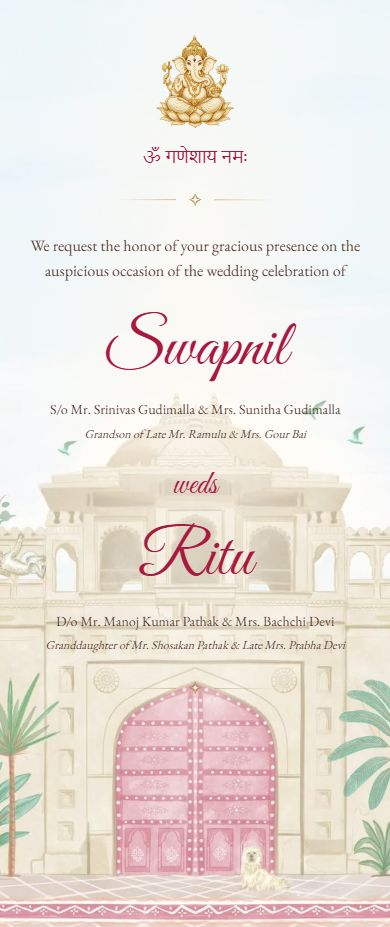
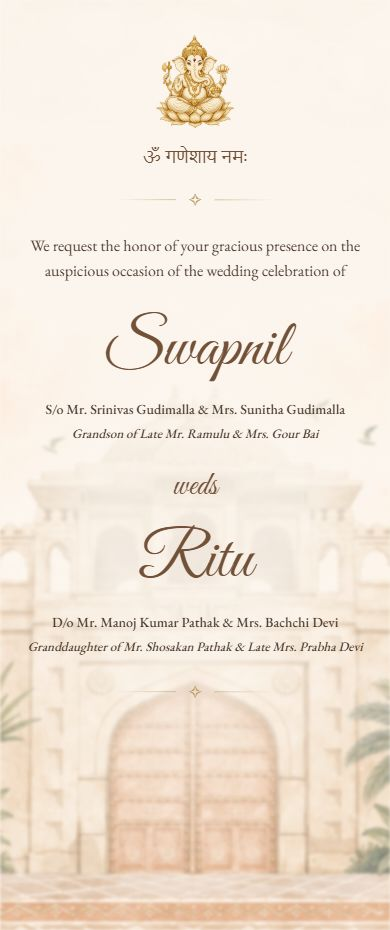
Match palace artwork to warm invitation theme and improve text readability

diff --git a/styles.css b/styles.css
@@ -15,15 +15,17 @@
 }
 
 :root {
-  --paper: #fffaf2;
-  --ink: #573b35;
-  --burgundy: #a9193e;
-  --gold: #b08b49;
+  --paper: #faf3e9;
+  --ink: #49372b;
+  --accent: #735139;
+  --gold: #b59659;
   --body-font: "EB Garamond", Georgia, serif;
   --name-font: "Great Vibes", cursive;
   --background-position: center bottom;
-  --background-opacity: 0.6;
-  --text-wash-opacity: 0.76;
+  --background-opacity: 0.85;
+  --background-blur: 1.5px;
+  --white-screen-opacity: 0.2;
+  --text-wash-opacity: 0.84;
 }
 
 * { box-sizing: border-box; }
@@ -42,7 +44,7 @@ p, h1, h2 { margin: 0; }
   background: var(--paper);
 }
 
-.palace-background {
+.invitation-background {
   position: absolute;
   inset: 0;
   z-index: -2;
@@ -51,6 +53,7 @@ p, h1, h2 { margin: 0; }
   object-fit: cover;
   object-position: var(--background-position);
   opacity: var(--background-opacity);
+  filter: blur(var(--background-blur));
   pointer-events: none;
 }
 
@@ -59,7 +62,9 @@ p, h1, h2 { margin: 0; }
   position: absolute;
   inset: 0;
   z-index: -1;
-  background: radial-gradient(ellipse 44% 60% at 50% 32%, rgb(255 250 242 / var(--text-wash-opacity)), transparent 100%);
+  background:
+    linear-gradient(rgb(255 255 255 / var(--white-screen-opacity)), rgb(255 255 255 / var(--white-screen-opacity))),
+    radial-gradient(ellipse 65% 48% at 50% 49%, color-mix(in srgb, var(--paper) calc(var(--text-wash-opacity) * 100%), transparent) 42%, transparent 100%);
   pointer-events: none;
 }
 
@@ -79,7 +84,7 @@ p, h1, h2 { margin: 0; }
 }
 
 .blessing {
-  color: var(--burgundy);
+  color: var(--accent);
   font-family: "Nirmala UI", "Kohinoor Devanagari", serif;
   font-size: clamp(17px, 2.6vw, 21px);
   line-height: 1.7;
@@ -116,7 +121,7 @@ p, h1, h2 { margin: 0; }
 
 .couple { width: 100%; }
 .person-name {
-  color: var(--burgundy);
+  color: var(--accent);
   font-family: var(--name-font);
   font-weight: 400;
   font-size: clamp(65px, 8vw, 88px);
@@ -128,19 +133,21 @@ p, h1, h2 { margin: 0; }
   max-width: 490px;
   margin-inline: auto;
   font-size: clamp(14px, 1.7vw, 17px);
+  font-weight: 500;
   line-height: 1.55;
   text-wrap: balance;
 }
 .grandparents {
   max-width: 450px;
   margin: 4px auto 0;
-  font-size: clamp(12px, 1.5vw, 14px);
+  font-size: clamp(13px, 1.5vw, 15px);
+  font-weight: 500;
   line-height: 1.6;
   font-style: italic;
   text-wrap: balance;
 }
 .connector {
-  color: var(--burgundy);
+  color: var(--accent);
   font-family: var(--name-font);
   font-size: 32px;
   line-height: 1.4;
@@ -168,12 +175,12 @@ p, h1, h2 { margin: 0; }
 
 @media (min-width: 760px) {
   .invitation-page { padding-bottom: 270px; }
-  .palace-background { object-fit: contain; }
+  .invitation-background { object-fit: contain; }
 }
 @media (max-width: 380px) {
   .invitation-page { padding-inline: 18px; }
   .parents { font-size: 13px; }
-  .grandparents { font-size: 12px; }
+  .grandparents { font-size: 13px; }
 }
 @media (prefers-reduced-motion: reduce) {
   .animate-entrance .invitation-content { animation: none; }

diff --git a/invitation.config.js b/invitation.config.js
@@ -7,17 +7,19 @@ window.INVITATION_CONFIG = {
     language: "en",
   },
   theme: {
-    paper: "#fffaf2",
-    ink: "#573b35",
-    burgundy: "#a9193e",
-    gold: "#b08b49",
+    paper: "#faf3e9",
+    ink: "#49372b",
+    accent: "#735139",
+    gold: "#b59659",
     bodyFont: '"EB Garamond", Georgia, serif',
     nameFont: '"Great Vibes", cursive',
-    background: "assets/palace-gate.png",
+    background: "assets/palace-gate-warm.png",
     backgroundPosition: "center bottom",
-    backgroundOpacity: 0.6,
-    // A light wash keeps the family details readable over the original palace artwork.
-    textWashOpacity: 0.76,
+    backgroundOpacity: 0.85,
+    backgroundBlur: "1.5px",
+    whiteScreenOpacity: 0.2,
+    // A warm ivory wash keeps the family details readable over the palace artwork.
+    textWashOpacity: 0.84,
     entranceAnimation: true,
   },
   sectionOrder: ["invitation"],

diff --git a/app.js b/app.js
@@ -25,12 +25,14 @@
   const themeProperties = {
     paper: "--paper",
     ink: "--ink",
-    burgundy: "--burgundy",
+    accent: "--accent",
     gold: "--gold",
     bodyFont: "--body-font",
     nameFont: "--name-font",
     backgroundPosition: "--background-position",
     backgroundOpacity: "--background-opacity",
+    backgroundBlur: "--background-blur",
+    whiteScreenOpacity: "--white-screen-opacity",
     textWashOpacity: "--text-wash-opacity",
   };
   for (const [key, property] of Object.entries(themeProperties)) {
@@ -53,7 +55,7 @@
     page.setAttribute("aria-labelledby", "couple-names");
 
     const background = document.createElement("img");
-    background.className = "palace-background";
+    background.className = "invitation-background";
     background.src = config.theme.background;
     background.alt = "";
     background.setAttribute("aria-hidden", "true");

diff --git a/index.html b/index.html
@@ -3,7 +3,7 @@
   <head>
     <meta charset="UTF-8">
     <meta name="viewport" content="width=device-width, initial-scale=1">
-    <meta name="theme-color" content="#fffaf2">
+    <meta name="theme-color" content="#faf3e9">
     <meta name="description" content="">
     <meta property="og:type" content="website">
     <meta property="og:title" content="">

diff --git a/README.md b/README.md
@@ -1,6 +1,6 @@
 # Swapnil & Ritu — Wedding Invitation
 
-The first invitation page uses Purvi's original palace background, Ganeshji at the top, “ॐ गणेशाय नमः”, and Swapnil and Ritu's family details from the reference screenshot.
+The first invitation page uses a recreated version of Purvi's palace background in the ivory, peach, champagne, and muted olive watercolour style of the supplied next-page floral image. Ganeshji appears at the top, followed by “ॐ गणेशाय नमः” and Swapnil and Ritu's family details from the reference screenshot.
 
 ## Preview
 
@@ -12,6 +12,7 @@ Edit **invitation.config.js** for all client content and theme settings:
 
 - `meta`: page title, description, and language.
 - `theme`: colours, fonts, background path, opacity, and entrance animation.
+- `theme.backgroundBlur` and `theme.whiteScreenOpacity`: background blur and the light white overlay. Use `"0px"` and `0` to remove them. Text and Ganeshji stay sharp.
 - `sectionOrder`: ordering of implemented website sections.
 - `sections.invitation`: Ganeshji image, mantra, invitation wording, couple order, names, parents, and grandparents.
 
@@ -21,7 +22,9 @@ Images and fonts are stored in `assets/`, and their paths are controlled through
 
 ## Asset sources
 
-- Palace artwork: recovered unchanged from the original Purvi & Yash invitation at `https://purviandyashweddinginvite.lovable.app/__l5e/assets-v1/dbffe025-a268-4a9c-8db0-38e363294e16/palace-gate.png`.
+- Current palace artwork: `assets/palace-gate-warm.png`, recreated with the built-in image tool using the original palace as the edit target and the user's floral image as the style reference. The exact prompt is saved in `assets/palace-gate-warm-prompt.txt`.
+- Original palace artwork (preserved): recovered from the original Purvi & Yash invitation at `https://purviandyashweddinginvite.lovable.app/__l5e/assets-v1/dbffe025-a268-4a9c-8db0-38e363294e16/palace-gate.png`.
+- Next-page background reference: the user's supplied image is preserved as `assets/next-page-floral-reference.png`; it is not rendered on the first page.
 - Fonts: Great Vibes and EB Garamond, downloaded from Google Fonts and served locally.
 - Ganeshji: generated gold invitation illustration; see `assets/ganeshji-prompt.txt` for the prompt.
 
